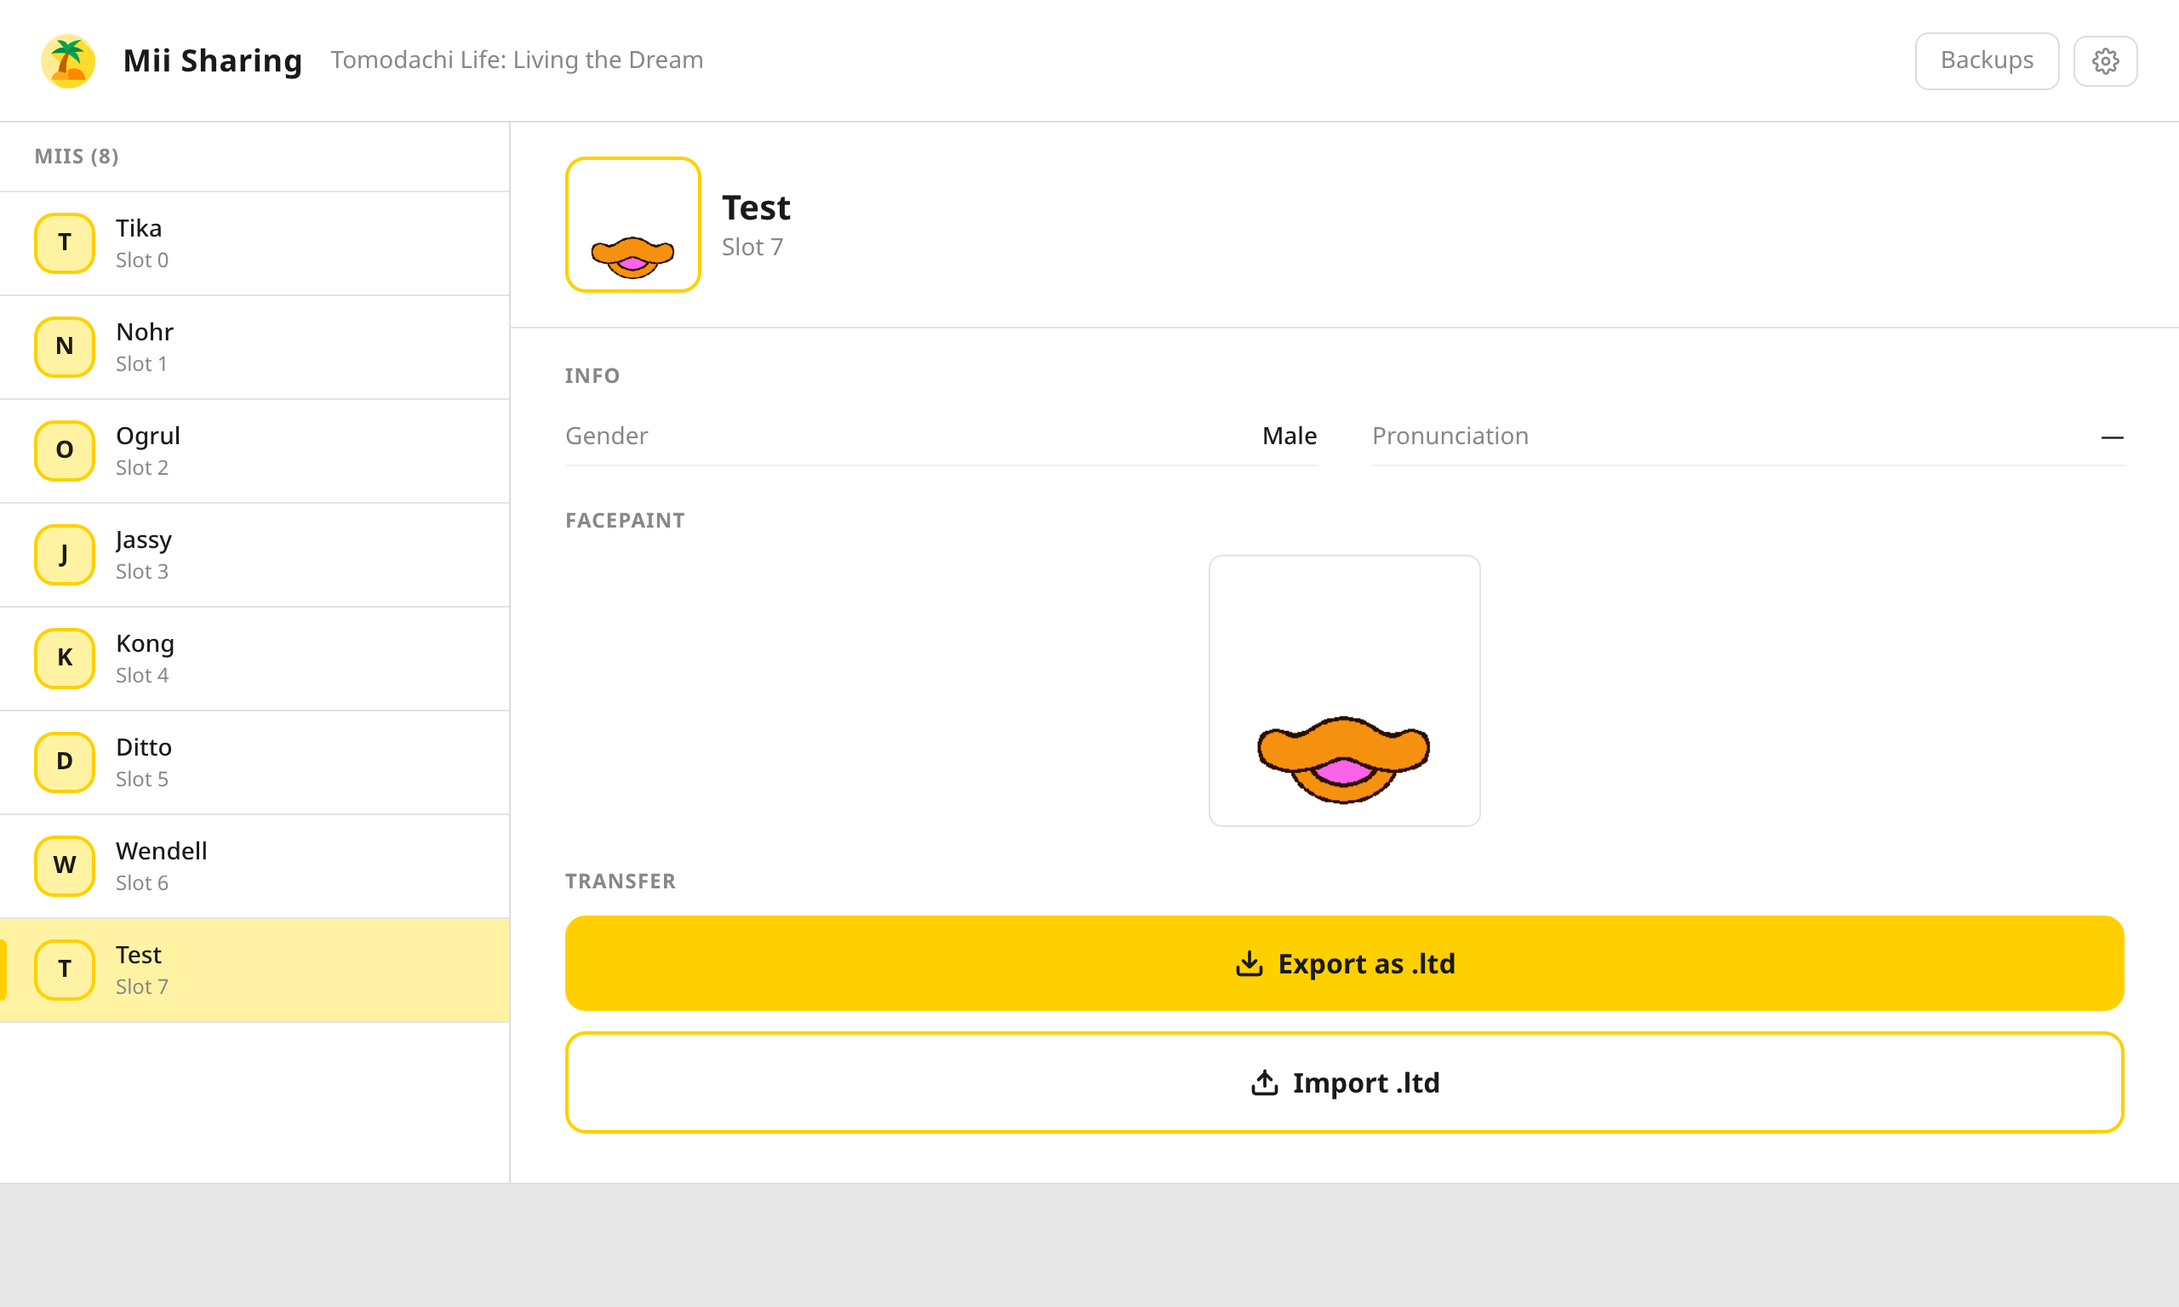
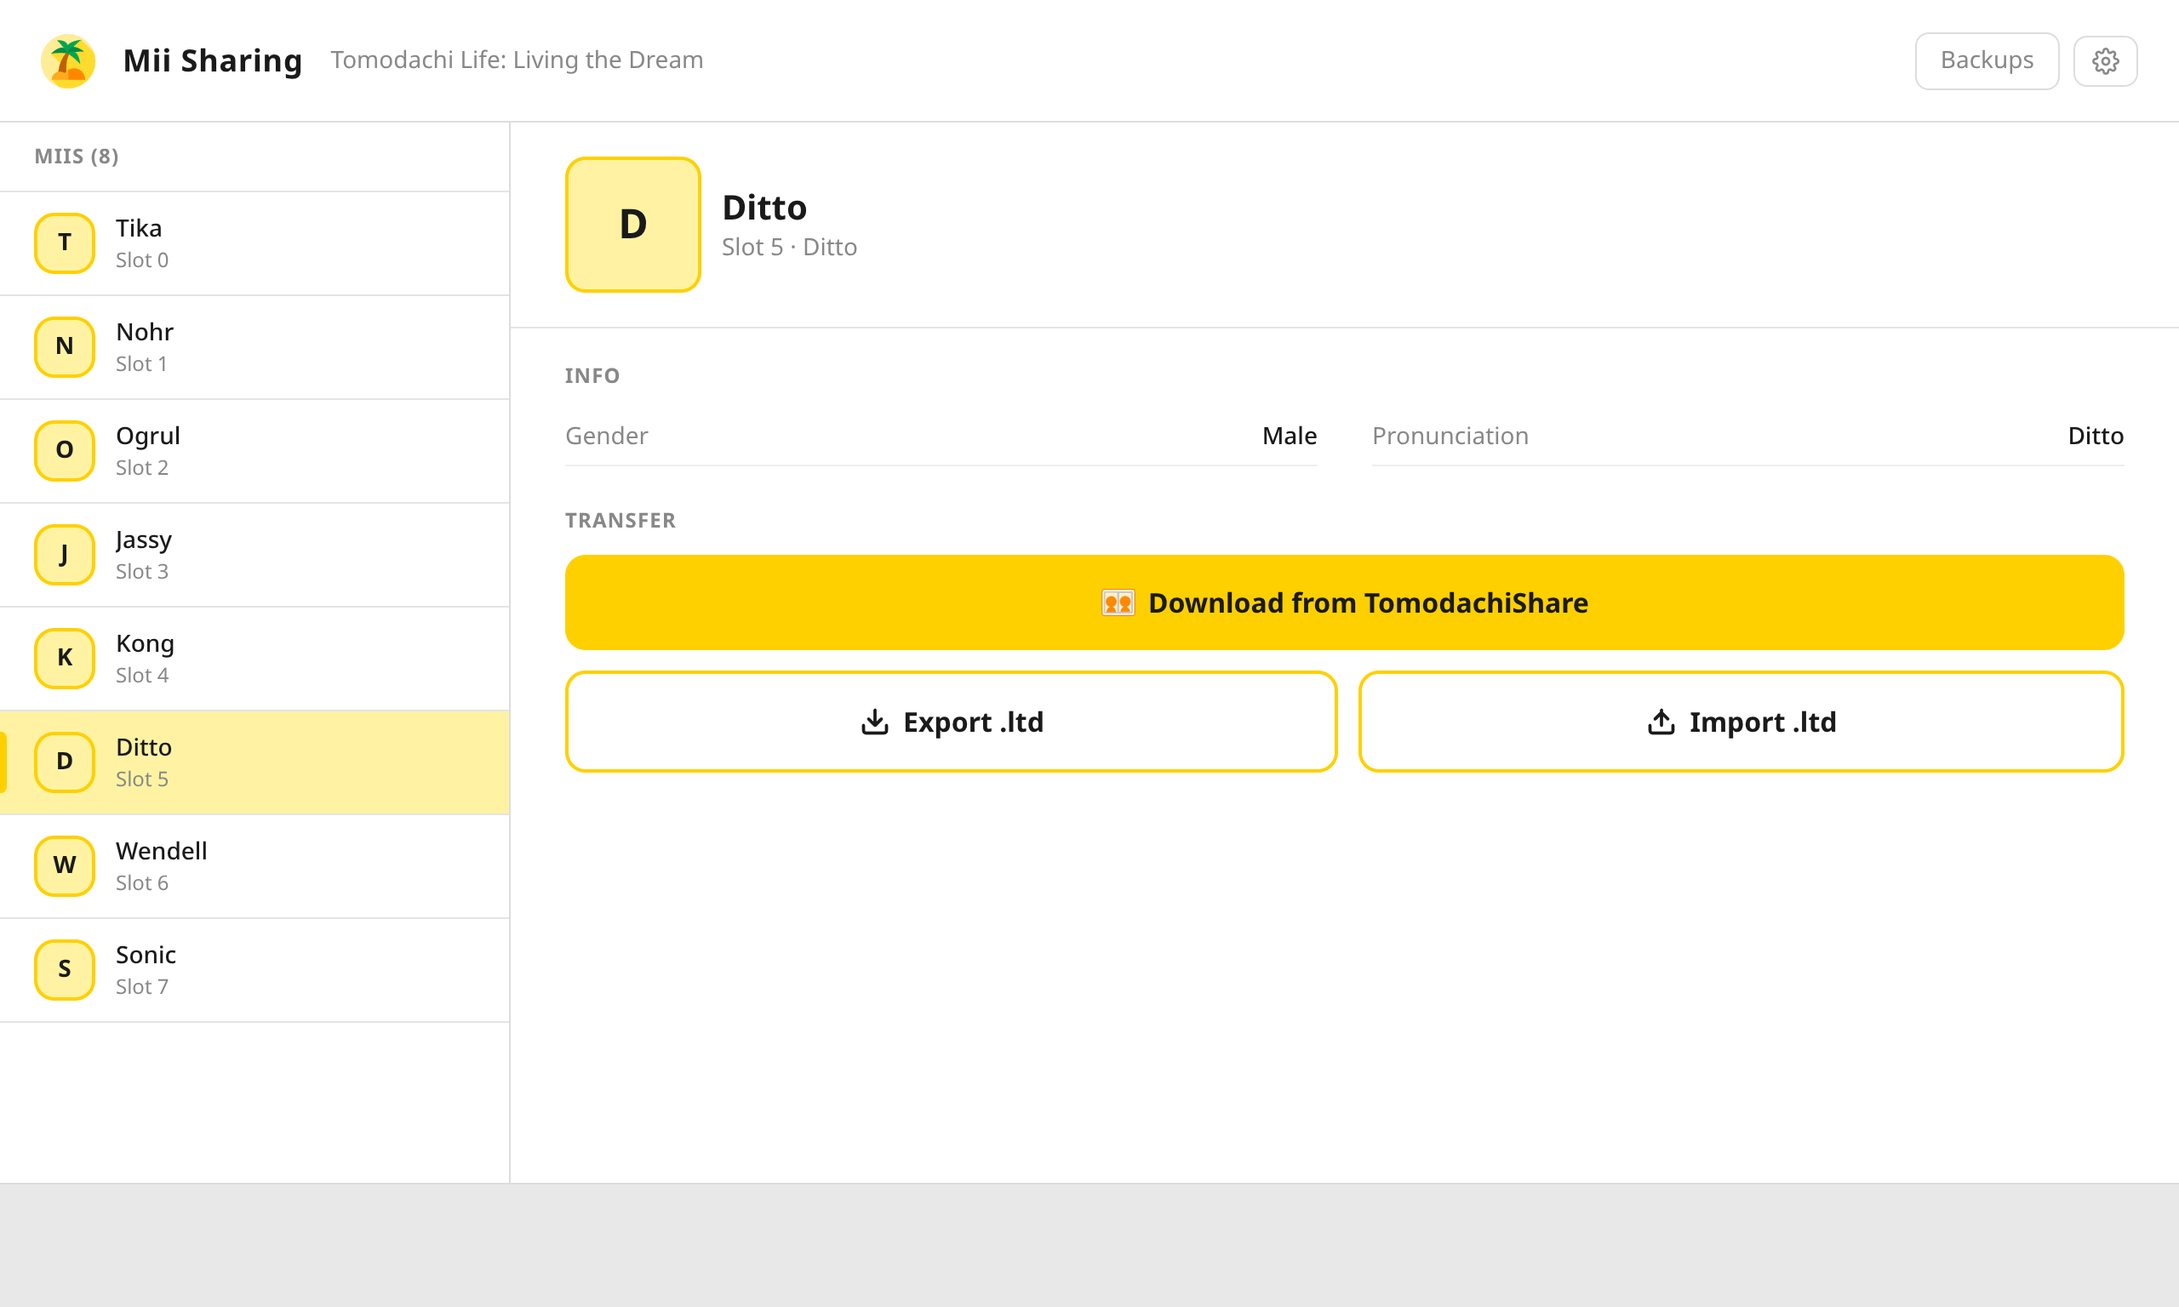
Add TomodachiShare integration and fix post-import UI refresh
- Download from TomodachiShare directly via link paste (modal with 2-phase validate → import flow)
- CORS proxy via cors-anywhere for browser-side fetching
- Fix: selected Mii now refreshes from server after import/reload
- Transfer buttons: TomodachiShare prominent (yellow), Export/Import outlined
- Update README with TomodachiShare usage section and condensed motivation

diff --git a/web/src/lib/MiiDetail.svelte b/web/src/lib/MiiDetail.svelte
@@ -1,5 +1,7 @@
 <script lang="ts">
-    import { exportMii, importMii } from './api.ts';
+    import { exportMii, importMii, importMiiBuffer } from './api.ts';
+
+    const CORS_PROXY = 'https://cors-anywhere.hc-streaming.com';
     import { GENDER_LABELS, type Mii, type Status } from './types.ts';
     import { facepaintUrl } from './facepaint.ts';
     import Icon from './Icon.svelte';
@@ -12,6 +14,12 @@
     let busy = $state(false);
     let facepaintLoaded = $state(false);
     let modal = $state<{ message: string; onConfirm: () => void } | null>(null);
+
+    type TsPhase = 'input' | 'confirm';
+    interface TsInfo { id: number; name: string; platform: string }
+    interface TsModalState { phase: TsPhase; url: string; loading: boolean; error: string | null; info: TsInfo | null }
+
+    let tsModal = $state<TsModalState | null>(null);
 
     function setStatus(msg: string, ok: boolean) {
         status = { msg, ok };
@@ -54,6 +62,59 @@
                 }
             },
         };
+    }
+
+    function openTsModal() {
+        tsModal = { phase: 'input', url: '', loading: false, error: null, info: null };
+    }
+
+    function parseTsId(rawUrl: string): number | null {
+        const m = rawUrl.trim().match(/tomodachishare\.com\/mii\/(\d+)/);
+        return m ? parseInt(m[1], 10) : null;
+    }
+
+    async function checkTsUrl() {
+        if (!tsModal) return;
+        const id = parseTsId(tsModal.url);
+        if (id === null) {
+            tsModal.error = 'Invalid URL. Expected: https://tomodachishare.com/mii/12345';
+            return;
+        }
+        tsModal.loading = true;
+        tsModal.error = null;
+        try {
+            const res = await fetch(`${CORS_PROXY}/https://api.tomodachishare.com/api/mii/${id}/info`);
+            if (!res.ok) throw new Error(`Mii not found (${res.status})`);
+            const data = await res.json() as { id: number; name: string; platform: string; isFromSaveFile: boolean };
+            if (!data.isFromSaveFile) throw new Error('This Mii has no downloadable .ltd file');
+            tsModal.info = { id: data.id, name: data.name, platform: data.platform };
+            tsModal.phase = 'confirm';
+        } catch (e) {
+            tsModal.error = e instanceof Error ? e.message : String(e);
+        } finally {
+            tsModal.loading = false;
+        }
+    }
+
+    async function doTsImport() {
+        if (!tsModal?.info) return;
+        const { id, name } = tsModal.info;
+        tsModal.loading = true;
+        tsModal.error = null;
+        try {
+            const res = await fetch(`${CORS_PROXY}/https://api.tomodachishare.com/mii/${id}/download`);
+            if (!res.ok) throw new Error(`Download failed (${res.status})`);
+            const buf = await res.arrayBuffer();
+            await importMiiBuffer(mii.slot, buf);
+            tsModal = null;
+            setStatus(`"${name}" imported into slot ${mii.slot}!`, true);
+            onImported();
+        } catch (e) {
+            if (tsModal) {
+                tsModal.error = e instanceof Error ? e.message : String(e);
+                tsModal.loading = false;
+            }
+        }
     }
 
     const gender = $derived(GENDER_LABELS[mii.gender] ?? String(mii.gender));
@@ -143,33 +204,48 @@
         <section>
             <h3 class="text-xs font-bold uppercase tracking-wider text-sw-text-muted mb-3">Transfer</h3>
             <div class="flex flex-col gap-3">
+
                 <button
-                    onclick={doExport}
+                    onclick={openTsModal}
                     disabled={busy}
                     class="w-full py-4 rounded-xl bg-td-yellow text-sw-text font-bold text-base
                            hover:bg-td-yellow-dark active:scale-[0.98] transition-all
                            disabled:opacity-40 disabled:cursor-not-allowed flex items-center justify-center gap-2"
                 >
-                    <Icon name="download" width={18} height={18} />
-                    Export as .ltd
+                    <img src="https://tomodachishare.com/favicon.svg" class="w-5 h-5" alt="" />
+                    Download from TomodachiShare
                 </button>
 
-                <label class="w-full {busy ? 'opacity-40 cursor-not-allowed' : 'cursor-pointer'}">
-                    <input
-                        bind:this={importFile}
-                        type="file"
-                        accept=".ltd"
-                        class="hidden"
-                        onchange={doImport}
+                <div class="flex gap-3">
+                    <button
+                        onclick={doExport}
                         disabled={busy}
-                    />
-                    <span class="flex items-center justify-center gap-2 w-full py-4 rounded-xl
-                                 border-2 border-td-yellow text-sw-text font-bold text-base
-                                 hover:bg-td-yellow-light active:scale-[0.98] transition-all">
-                        <Icon name="upload" width={18} height={18} />
-                        Import .ltd
-                    </span>
-                </label>
+                        class="flex-1 py-4 rounded-xl border-2 border-td-yellow text-sw-text font-bold text-base
+                               hover:bg-td-yellow-light active:scale-[0.98] transition-all
+                               disabled:opacity-40 disabled:cursor-not-allowed flex items-center justify-center gap-2"
+                    >
+                        <Icon name="download" width={18} height={18} />
+                        Export .ltd
+                    </button>
+
+                    <label class="flex-1 {busy ? 'opacity-40 cursor-not-allowed' : 'cursor-pointer'}">
+                        <input
+                            bind:this={importFile}
+                            type="file"
+                            accept=".ltd"
+                            class="hidden"
+                            onchange={doImport}
+                            disabled={busy}
+                        />
+                        <span class="flex items-center justify-center gap-2 w-full py-4 rounded-xl
+                                     border-2 border-td-yellow text-sw-text font-bold text-base
+                                     hover:bg-td-yellow-light active:scale-[0.98] transition-all">
+                            <Icon name="upload" width={18} height={18} />
+                            Import .ltd
+                        </span>
+                    </label>
+                </div>
+
             </div>
         </section>
 
@@ -178,4 +254,85 @@
 
 {#if modal}
     <Modal message={modal.message} confirmLabel="Replace" onConfirm={modal.onConfirm} onCancel={() => modal = null} />
+{/if}
+
+{#if tsModal}
+    <div
+        class="fixed inset-0 z-50 flex items-center justify-center bg-black/50 backdrop-blur-sm"
+        role="dialog"
+        aria-modal="true"
+    >
+        <div class="bg-sw-surface border border-sw-border rounded-2xl shadow-2xl p-6 max-w-sm w-full mx-4">
+
+            <div class="flex items-center gap-3 mb-5">
+                <img src="https://tomodachishare.com/favicon.svg" class="w-7 h-7" alt="TomodachiShare" />
+                <h2 class="text-base font-bold">Download from TomodachiShare</h2>
+            </div>
+
+            {#if tsModal.phase === 'input'}
+                <p class="text-sm text-sw-text-muted mb-3">Paste a TomodachiShare Mii link:</p>
+                <input
+                    type="url"
+                    bind:value={tsModal.url}
+                    placeholder="https://tomodachishare.com/mii/51259"
+                    class="w-full px-3 py-2.5 rounded-lg bg-sw-bg border border-sw-border text-sw-text text-sm
+                           focus:outline-none focus:border-td-yellow mb-3"
+                    onkeydown={(e) => { if (e.key === 'Enter') checkTsUrl(); }}
+                    disabled={tsModal.loading}
+                />
+                {#if tsModal.error}
+                    <p class="text-red-500 text-xs mb-3">{tsModal.error}</p>
+                {/if}
+                <div class="flex gap-3 justify-end">
+                    <button
+                        onclick={() => { tsModal = null; }}
+                        disabled={tsModal.loading}
+                        class="px-4 py-2 rounded-lg border border-sw-border text-sw-text-muted text-sm
+                               hover:border-td-yellow hover:text-sw-text transition-colors disabled:opacity-40"
+                    >
+                        Cancel
+                    </button>
+                    <button
+                        onclick={checkTsUrl}
+                        disabled={tsModal.loading || !tsModal.url.trim()}
+                        class="px-4 py-2 rounded-lg bg-td-yellow text-sw-text text-sm font-semibold
+                               hover:bg-td-yellow-dark active:scale-[0.98] transition-all disabled:opacity-40 disabled:cursor-not-allowed"
+                    >
+                        {tsModal.loading ? 'Checking…' : 'Check'}
+                    </button>
+                </div>
+
+            {:else}
+                <div class="bg-sw-bg border border-sw-border rounded-lg px-4 py-3 mb-4">
+                    <div class="font-semibold text-sm">{tsModal.info!.name}</div>
+                    <div class="text-sw-text-muted text-xs mt-0.5">{tsModal.info!.platform} · #{tsModal.info!.id}</div>
+                </div>
+                <p class="text-sm text-sw-text-muted mb-4">
+                    Import into slot <strong class="text-sw-text">{mii.slot}</strong> ({mii.name || 'No name'})?
+                </p>
+                {#if tsModal.error}
+                    <p class="text-red-500 text-xs mb-3">{tsModal.error}</p>
+                {/if}
+                <div class="flex gap-3 justify-end">
+                    <button
+                        onclick={() => { tsModal = null; }}
+                        disabled={tsModal.loading}
+                        class="px-4 py-2 rounded-lg border border-sw-border text-sw-text-muted text-sm
+                               hover:border-td-yellow hover:text-sw-text transition-colors disabled:opacity-40"
+                    >
+                        Cancel
+                    </button>
+                    <button
+                        onclick={doTsImport}
+                        disabled={tsModal.loading}
+                        class="px-4 py-2 rounded-lg bg-td-yellow text-sw-text text-sm font-semibold
+                               hover:bg-td-yellow-dark active:scale-[0.98] transition-all disabled:opacity-40 disabled:cursor-not-allowed"
+                    >
+                        {tsModal.loading ? 'Importing…' : 'Import'}
+                    </button>
+                </div>
+            {/if}
+
+        </div>
+    </div>
 {/if}

diff --git a/web/src/lib/api.ts b/web/src/lib/api.ts
@@ -22,6 +22,16 @@ export async function importMii(slot: number, file: File): Promise<void> {
     if (!res.ok) throw new Error(data.error);
 }
 
+export async function importMiiBuffer(slot: number, buf: ArrayBuffer): Promise<void> {
+    const res = await fetch(`/mii/${slot}`, {
+        method: 'POST',
+        headers: { 'Content-Type': 'application/octet-stream' },
+        body: buf,
+    });
+    const data = await res.json();
+    if (!res.ok) throw new Error(data.error);
+}
+
 export async function fetchBackups(): Promise<Backup[]> {
     const res = await fetch('/backups');
     if (!res.ok) throw new Error(await res.text());

diff --git a/romfs/web/index.html b/romfs/web/index.html
@@ -4,8 +4,8 @@
   <meta charset="UTF-8" />
   <meta name="viewport" content="width=device-width, initial-scale=1" />
   <title>Mii Sharing</title>
-  <script type="module" crossorigin src="/assets/index-B9XMg4Sk.js"></script>
-  <link rel="stylesheet" crossorigin href="/assets/index-DZfAMBQT.css">
+  <script type="module" crossorigin src="/assets/index-BQhoJB7o.js"></script>
+  <link rel="stylesheet" crossorigin href="/assets/index-C_iQkyzL.css">
 </head>
 <body>
   <div id="app"></div>

diff --git a/web/src/App.svelte b/web/src/App.svelte
@@ -22,7 +22,11 @@
         loading = true; error = null;
         try {
             miis = await fetchMiis();
-            if (miis.length > 0 && !selected) selected = miis[0];
+            if (selected) {
+                selected = miis.find(m => m.slot === selected!.slot) ?? miis[0] ?? null;
+            } else if (miis.length > 0) {
+                selected = miis[0];
+            }
         } catch (e) {
             error = String(e);
         } finally {

diff --git a/README.md b/README.md
@@ -1,4 +1,4 @@
-# Mii Sharing — Tomodachi Life: Living the Dream
+# Mii Sharing (beta) — Homebrew App 
 
 <p align="center"><img src="docs/screenshots/logo.png" alt="Mii Sharing Logo" width="200" /></p>
 
@@ -9,9 +9,14 @@ Fan-made homebrew app for Nintendo Switch that lets you view, export, and import
 
 ## 🛋 Motivation
 
-Other tools like [Azkun/ShareMii](https://github.com/Azkun/ShareMii) require you to dump your save file to a PC, make changes there, and re-upload it to the Switch. That works — but it's a lot of steps just to add a friend's Mii - and I am too lazy for that :D.
+Other awesome tools like [Azkun/ShareMii](https://github.com/Azkun/ShareMii) require dumping your save to a PC, editing it there, and re-uploading — a lot of steps just to add a friend's Mii. This app takes a different approach:
 
-The goal here is a different workflow: open the app directly on your homebrew Switch, browse your Miis, and import or export without ever touching a save file or getting up from the couch. Your Switch serves the UI over the local network, so you can use any phone or browser on the same WiFi — Switch in the dock, phone in hand, done. If you need a solution to edit your whole savefile easily, have a look at ShareMii. 
+- **No PC needed** — runs directly on your homebrew Switch
+- **Any browser** — your Switch serves the UI over local WiFi, use your phone or laptop
+- **Direct TomodachiShare integration** — browse [tomodachishare.com](https://tomodachishare.com), paste a link, done
+- **Couch-friendly** — Switch in the dock, phone in hand
+
+> Need to edit your whole save file? [ShareMii](https://github.com/Azkun/ShareMii) has you covered.
 
 ## 📋 Requirements
 
@@ -20,7 +25,11 @@ The goal here is a different workflow: open the app directly on your homebrew Sw
 
 ## 📸 Screenshots
 ![Switch](docs/screenshots/switch.png)
+
 ![Import dialog](docs/screenshots/mii-list.png)
+
+![TomodachiShare](docs/screenshots/tomodachi-share.png)
+
 ![Mii list view](docs/screenshots/backup.png)
 
 ## 🚀 Usage
@@ -40,40 +49,9 @@ Click a Mii in the list, then click "Export as .ltd". The browser downloads a `.
 
 Click an occupied slot, then click "Import .ltd" and select a `.ltd` file from your device.
 
-## 🛠 Local Development
+**Downloading from TomodachiShare:**
 
-Requirements: Node.js, pnpm
-
-```
-pnpm install
-```
-
-Start the dev server against a local save file (requires a real `Mii.sav`):
-
-```
-MII_SAV_PATH=./testdata/Mii.sav pnpm dev
-```
-
-To develop the web UI against a running Switch app:
-
-```
-API_URL=http://<switch-ip>:8080 pnpm web:dev
-```
-
-## 📄 File Format
-
-`.ltd` files use the **ltds** (Tomodachi Life Data Sharing) format, originally created by [Star-F0rce/ShareMii](https://github.com/Star-F0rce/ShareMii) and also used by [Azkun/ShareMii](https://github.com/Azkun/ShareMii). This app targets the current version of the format — note that the spec may evolve over time and compatibility is not guaranteed for future revisions.
-
-Each file contains:
-
-- `CharInfoRaw` — the raw Mii character data from the save
-- Personality — 18 × uint32 values
-- Name and pronunciation strings (UTF-16LE)
-- Sexuality flags
-- Optional: facepaint canvas (NSW block-linear swizzled RGBA8, 256×256) and ugctex blob, stored as compressed blobs after a fixed 428-byte header
-
-The facepaint data uses the NSW block-linear swizzle layout. The deswizzle algorithm used here was ported from [tomodachi-texture-tool](https://github.com/farbensplasch/tomodachi-texture-tool).
-
+Find a Mii you like on [tomodachishare.com](https://tomodachishare.com), copy the link (e.g. `https://tomodachishare.com/mii/51259`), click **"Download from TomodachiShare"** in the app, paste the link and hit Import. No file download, no PC — the Mii goes straight into the selected slot.
 
 ## 🙏 Acknowledgements
 
